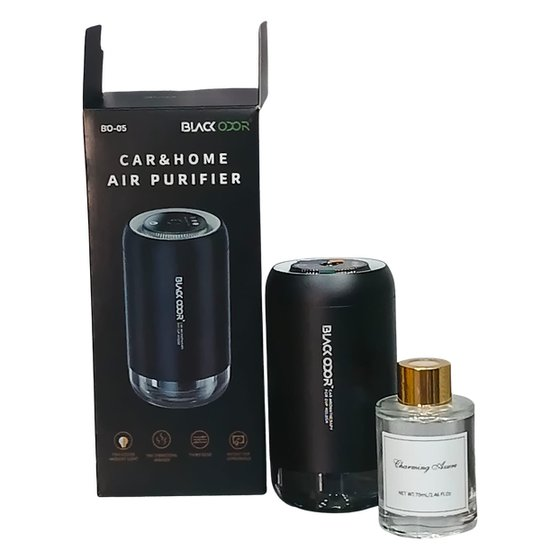
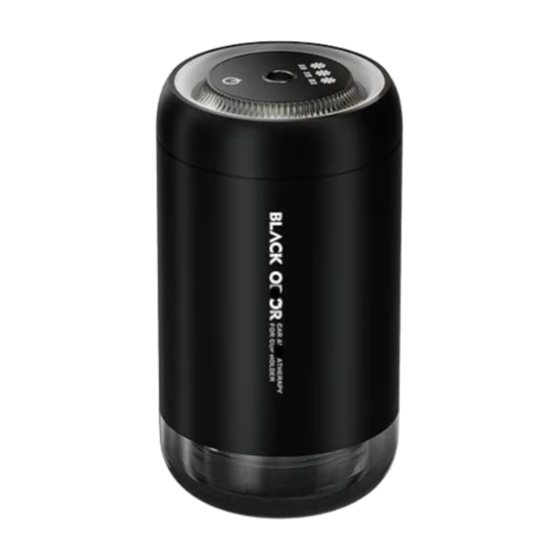
New photos: BO-13 (blue 160ml), BO-5 (automatic diffuser), Godrej Aer Hanging
Matches confirmed by Jayant. P007 now has its own photo again.

Claude-Session: https://claude.ai/code/session_01HJNy5m9M5H2vu26AYx6LrZ

diff --git a/PROGRESS.md b/PROGRESS.md
@@ -11,21 +11,20 @@ Preview link (not for dealers yet): https://jayantkhairwal-dot.github.io/jaiambe
 - Colours switched from blue to the logo red; `CLAUDE.md` design notes updated.
 - Catalog: removed Bluzon Comet and Bluzon Spray (Bluzon Kode stays);
   added Black Odor BO-1, BO-2, BO-40, BO-41 and Helicopter Solar. Now 108 products.
-- Fixed BO-13 photo. Sharper photos for Black Odor Microphone (P002) and BO-12 (P008).
+- Fixed BO-13 photo. Sharper photos for Black Odor Microphone (P002), BO-12 (P008), BO-13 blue 160ml (P007),
+  BO-5 automatic diffuser (P053) and Godrej Aer Hanging (P038).
 - GitHub Pages turned on from branch `claude/home-screen-design-plan-2bnwgc`.
 - Buttons for screens not built yet show a "coming next" message.
 
 ## Waiting on Jayant
-1. Approve the home screen design (then build the other screens).
+1. Home screen approved on 11 Nov 2026: building the other screens.
 2. HD product photos: Black Odor has no official website, so photos found online belong
    to other shops. Ask the supplier / the source of the BO-1 and BO-2 photos for the full
    Black Odor image set or catalog PDF. Google share links can't be opened from Claude's
    session: download the images and send them instead.
 3. Wrong or doubtful photos: P005 BO-30, P043 BO-33, P047 BO-32 (photo or category),
    P024 Fighter Jet Solar ₹550 (no correct photo: send one or remove).
-3b. Photo matches to confirm: is BO-10 (P097) the green kiwi "Jelly Bubble" jar (need a photo without
-   the XMOTORS watermark)? Is BO-13 (P007) the blue 160ml bottle? Is BO-5 (P053) the black
-   "Automatic Car Diffuser"? BO-21 (P009) kept old photo: new one was too small and lid looked different.
+3b. BO-10 (P097) is the green kiwi "Jelly Bubble" jar: need a photo without the XMOTORS watermark.
 4. Bluzon Kode: confirm category (Dashboard or Solar) and price (₹300 in app vs ₹325 in sales).
 5. Decide: add a "don't show in Google" tag until launch? Hide prices behind a login or PIN?
 
